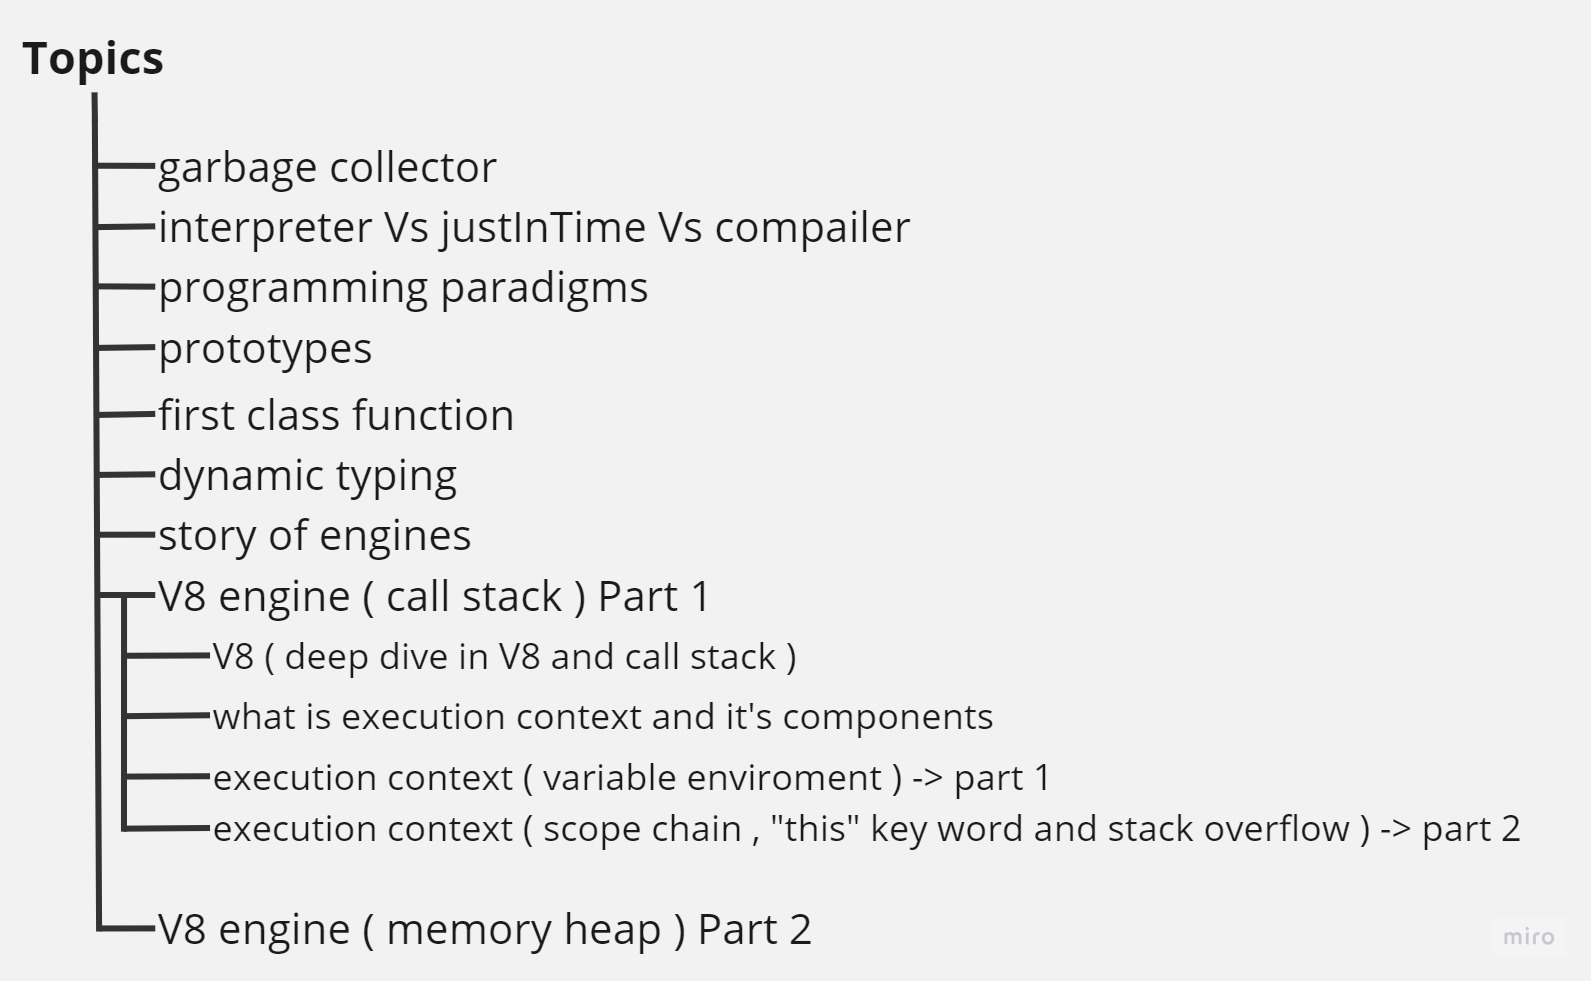
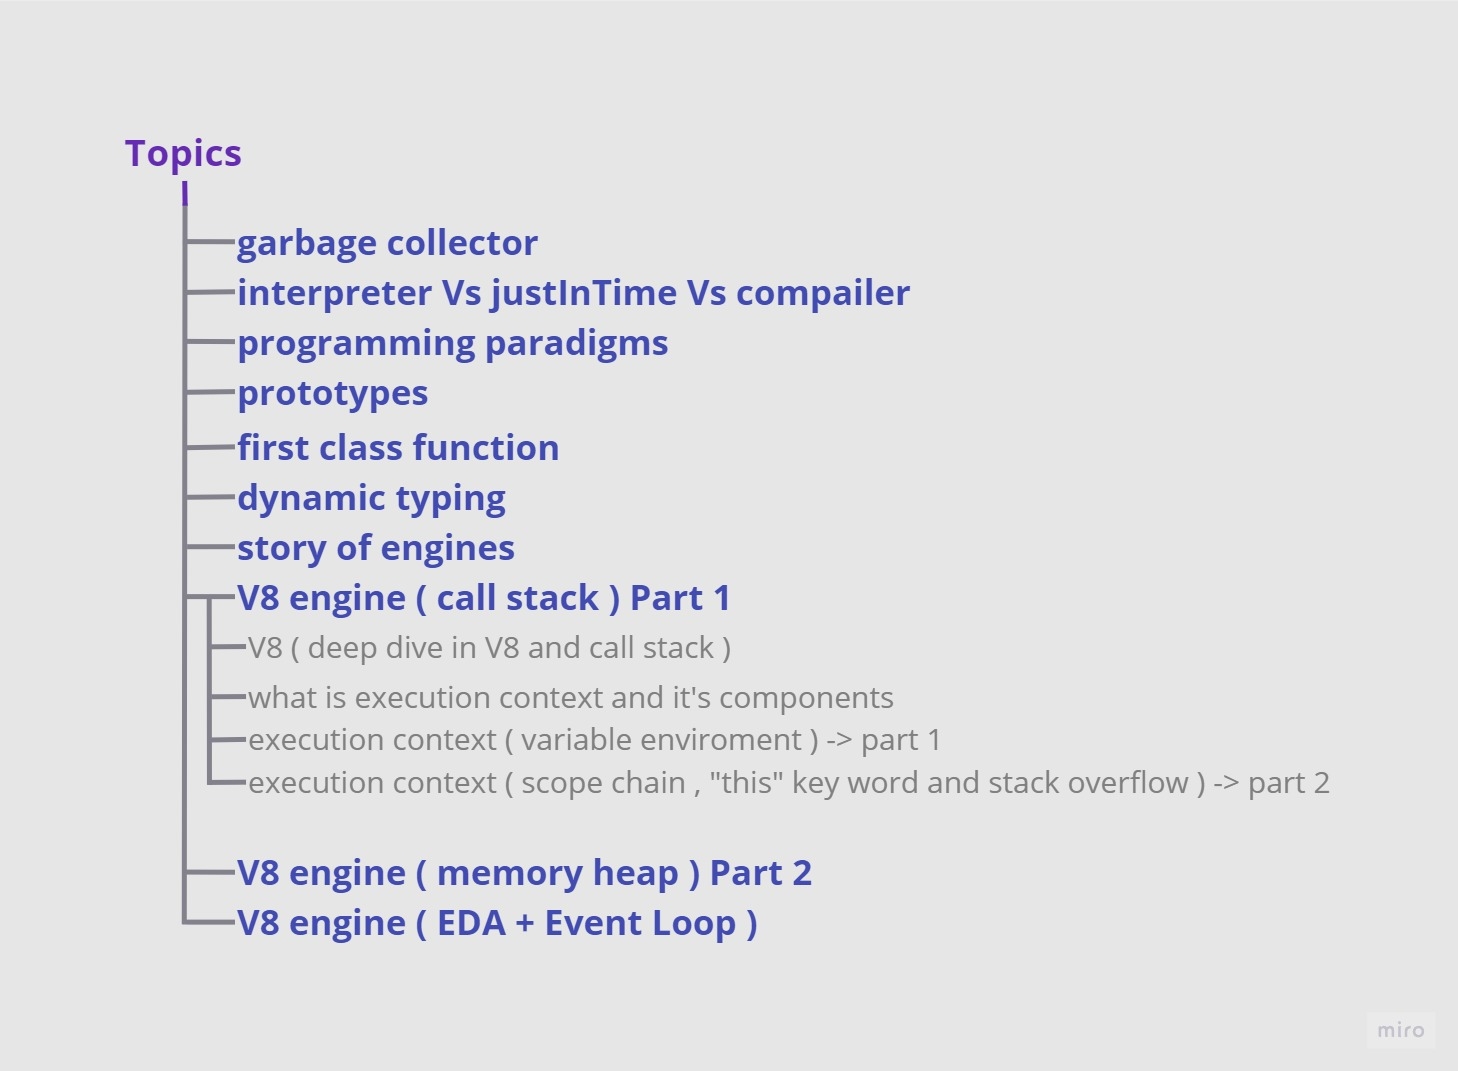
13th concept

diff --git a/V8_EDA+EventLoop.js b/V8_EDA+EventLoop.js
@@ -1,0 +1,59 @@
+/*
+
+                            we will go through the following points :
+|----------------------------------------------------------------------------------------|
+| 1- welcome to architecture      
+| 2- single-threaded vs multi-threaded ?
+| 3- Blocking Vs Non-Blocking
+| 4- what is Event-driven architecture ( EDA ) , it's components and how it works ?
+| 5- what is Event Loop , it's components and how it works ?
+| 6- microtask Vs macrotask 
+|----------------------------------------------------------------------------------------|
+
+
+______________________________________________________________________________________________________________________________________________________First Part : 
+
+** welcome to architecture !! 
+
+- i would like to start with a very deap question : what is software architecture ?
+=> software architecture is the fundamental organization of a software system, embodied in its components and their relationships to each other. 
+=> It is the backbone that holds together the various components of a software system, ensuring they work together cohesively to fulfill the system's intended purpose.
+=> it providing a clear understanding of how the system's components interact, communicate, and collaborate. It defines the overall structure, and relationships between the various components of the software system
+=> we can say that the software architecture serves as a blueprint for the software's design ( software architecture is low-level design )
+=> we have many types of software architecture like ( layered architecture , event-driven architecture , microservices architecture , etc ... )
+
+- BUT why are we talking about software architecture ? ummmmmmm let's see
+- the last articles we talked about main components of V8 engine right ?
+- and as we all know that V8 is a normal software system so it has an architecture right ?
+
+- but what is the architecture of V8 engine ?
+=> V8 engine is a single-threaded application that uses an event-driven architecture and we will dicuss this in this article 
+
+______________________________________________________________________________________________________________________________________________________Second Part : 
+
+** single-threaded vs multi-threaded ?
+
+
+______________________________________________________________________________________________________________________________________________________Third Part : 
+
+** what is Event-driven architecture ( EDA ) ?
+=> Event-driven architecture is a software architecture pattern where the system responds to significant changes in state called "events."
+=> these events represent significant occurrences or changes in the state of the system and trigger actions by other components. 
+=> in simple words : EDA is a software architecture pattern that depends on events and these events are responsible for triggering actions by other components
+=> ( if component A does something, then component B will do something else ) that's the main idea of EDA
+
+______________________________________________________________________________________________________________________________________________________Fourth Part : 
+
+** 
+______________________________________________________________________________________________________________________________________________________Fifth Part : 
+
+** 
+
+______________________________________________________________________________________________________________________________________________________Sixth Part : 
+
+** 
+
+
+IF THIS EXPLANATION WAS HELPFUL PLEASE GIVE ME A STAR :)
+
+*/

diff --git a/README.md b/README.md
@@ -41,3 +41,6 @@ link : https://github.com/ahmedabdelaziz5/key-concepts-in-JS/blob/master/callSta
 
 #### 9- deep dive in V8 -> memory heap 
 link : https://github.com/ahmedabdelaziz5/key-concepts-in-JS/blob/master/V8_part2_memoryHeap.js
+
+#### 10- deep dive in V8 -> Event-driven architecture and Event Loop 
+link : https://github.com/ahmedabdelaziz5/key-concepts-in-JS/blob/master/V8_EDA+EventLoop.js
